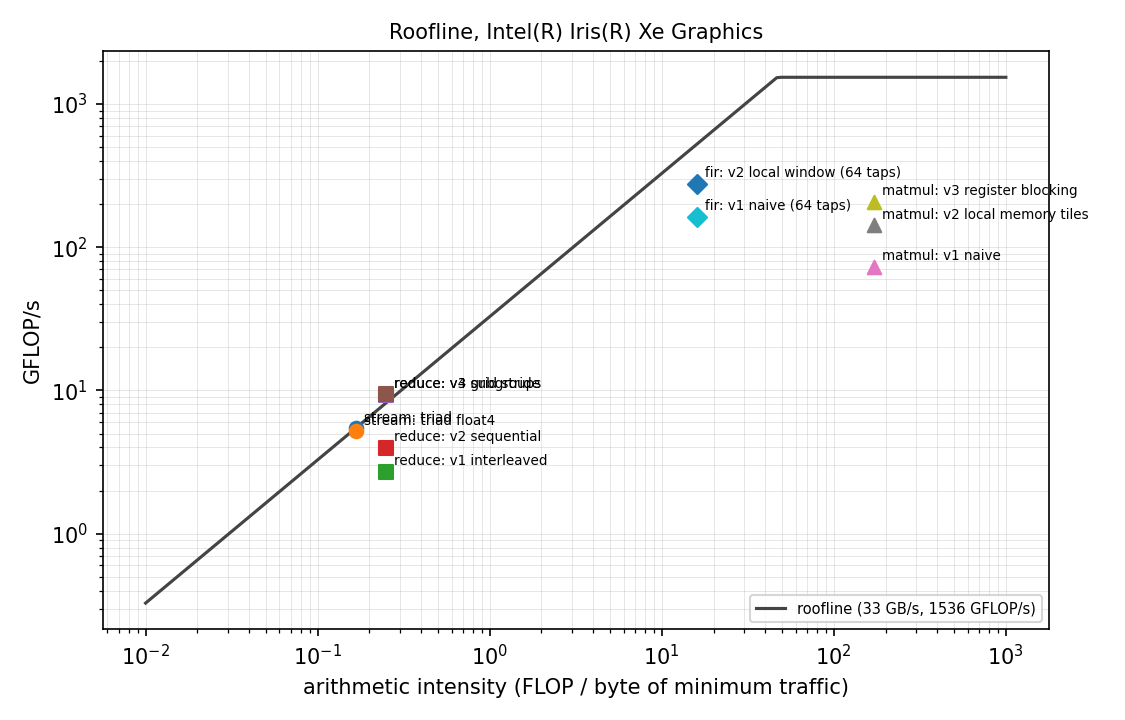
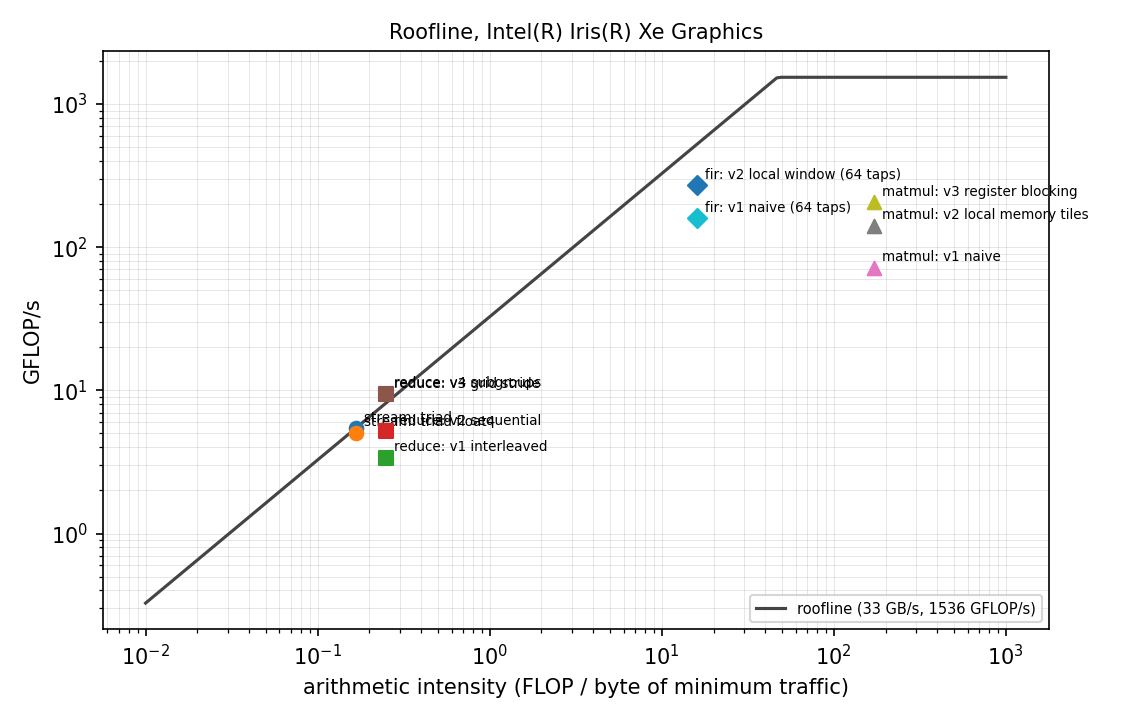
Reduction: uniform loop bound fixes wrong sums on PoCL; 32 bit indices; refreshed GPU results

diff --git a/README.md b/README.md
@@ -14,27 +14,32 @@ All numbers below were measured on an **Intel Iris Xe** integrated GPU (80 execu
 
 | Workload | Version | Time | Throughput | Speedup | What changed |
 |---|---|---|---|---|---|
-| Reduction, 16.8 M floats | v1 interleaved | 6.19 ms | 10.8 GB/s | 1.0x | tree in local memory, modulo test: divergent subgroups, bank conflicts |
-| | v2 sequential | 4.20 ms | 16.0 GB/s | 1.5x | contiguous active work items, so whole subgroups retire together |
-| | v3 grid stride | 2.33 ms | 28.8 GB/s | 2.7x | each work item sums many elements first; far fewer groups and barriers |
-| | v4 subgroups | 2.38 ms | 28.2 GB/s | 2.6x | `sub_group_reduce_add` in registers instead of the local memory tree |
-| | NumPy on CPU | 11.78 ms | 5.7 GB/s | | |
+| Reduction, 16.8 M floats | v1 interleaved | 4.96 ms | 13.5 GB/s | 1.0x | tree in local memory, modulo test: divergent subgroups, bank conflicts |
+| | v2 sequential | 3.22 ms | 20.8 GB/s | 1.5x | contiguous active work items, so whole subgroups retire together |
+| | v3 grid stride | 1.78 ms | 37.6 GB/s | 2.8x | each work item sums many elements first; far fewer groups and barriers |
+| | v4 subgroups | 1.77 ms | 38.0 GB/s | 2.8x | `sub_group_reduce_add` in registers instead of the local memory tree |
+| | NumPy on CPU | 11.59 ms | 5.8 GB/s | | |
 | Matrix multiply, 1024 x 1024 | v1 naive | 29.7 ms | 72 GFLOP/s | 1.0x | every operand from global memory |
 | | v2 local memory tiles | 15.1 ms | 142 GFLOP/s | 2.0x | 16 x 16 tiles staged in shared local memory |
 | | v3 register blocking | 10.4 ms | 207 GFLOP/s | 2.9x | each work item computes 4 outputs, reusing loads from registers |
-| | NumPy on CPU (BLAS) | 8.0 ms | 269 GFLOP/s | | |
+| | NumPy on CPU (BLAS) | 8.0 to 9.2 ms | 235 to 269 GFLOP/s | | |
 | FIR filter, 64 taps, 4.2 M samples | v1 naive | 3.28 ms | 164 GFLOP/s | 1.0x | every tap reads global memory |
-| | v2 local window | 1.97 ms | 273 GFLOP/s | 1.7x | the group loads its input window once into local memory |
-| | NumPy on CPU | 58.6 ms | 9 GFLOP/s | | |
+| | v2 local window | 1.98 ms | 271 GFLOP/s | 1.7x | the group loads its input window once into local memory |
+| | NumPy on CPU | 46 to 59 ms | 9 to 12 GFLOP/s | | |
 
 Measured memory bandwidth (STREAM triad): about **31 to 33 GB/s**, shared with the CPU. Full table with % of
 the roofline and correctness of every run: [results/REPORT.md](results/REPORT.md).
 
 ## What the numbers say
 
-* **Reduction is memory bound** (0.25 FLOP/byte, far left of the ridge point at about 47 FLOP/byte). Once
-  v3 reaches about 90% of measured bandwidth, the subgroup version cannot be faster; it only removes
-  barriers. The right question for a memory bound kernel is "how close to bandwidth", not "how many FLOPs".
+* **Reduction is memory bound** (0.25 FLOP/byte, far left of the ridge point at about 47 FLOP/byte). v3 and v4
+  read at about 38 GB/s, a little above the STREAM triad figure: STREAM mixes reads and writes, a reduction only
+  reads, and read only traffic is faster on this memory system. Once the kernel runs at memory speed the subgroup
+  version cannot be faster; it only removes barriers. The right question for a memory bound kernel is "how close
+  to bandwidth", not "how many FLOPs".
+* **32 bit index arithmetic matters on Xe.** Moving the reduction's loop counters from 64 bit `size_t` to 32 bit
+  `uint` made every version 20 to 30% faster (v3: 2.33 ms to 1.78 ms), because 64 bit integer math is emulated
+  with several instructions.
 * **Matrix multiply is compute bound** and still only at about 13% of peak. Tiling and register blocking
   give 2.9x, but an optimised CPU BLAS is still faster. The next steps would be larger register tiles,
   vector loads, and Intel subgroup block reads, which is where vendor libraries (oneMKL) get their speed.
@@ -53,7 +58,9 @@ pytest -q                          # every kernel variant against NumPy
 ```
 
 No GPU? `pip install -e ".[cpu]"` installs PoCL, which runs the same kernels on the CPU. CI uses it to check
-correctness of every variant on each push.
+correctness of every variant on each push, and it paid off: the first version of the v1 reduction, with
+`get_local_size(0)` written directly in the barrier loop condition, was correct on the Intel GPU but gave wrong sums
+on PoCL. Reading the work group size into a variable first, so the loop is plainly uniform, fixed it on both.
 
 ## Layout
 

diff --git a/results/REPORT.md b/results/REPORT.md
@@ -2,28 +2,28 @@
 
 Intel(R) Iris(R) Xe Graphics (ALL | GPU, 80 compute units at 1200 MHz, 64 KB local memory, 1536 GFLOP/s FP32 peak).
 
-Measured memory bandwidth (best STREAM kernel): **32.8 GB/s**.
-Ridge point of the roofline: 46.9 FLOP/byte. Kernels below it are limited by memory bandwidth, kernels above it by compute.
+Measured memory bandwidth (best STREAM kernel): **32.7 GB/s**.
+Ridge point of the roofline: 47.0 FLOP/byte. Kernels below it are limited by memory bandwidth, kernels above it by compute.
 
 Speedup is against the first (v1) GPU version of the same suite. The NumPy rows run on the laptop's CPU.
 
 | Suite | Variant | Size | Time | GB/s | GFLOP/s | % of roof | FLOP/byte | Speedup | Check |
 |---|---|---|---|---|---|---|---|---|---|
-| stream | copy | 16,777,216 floats | 4.352 ms | 30.8 | 0.0 | 94% of best | 0.00 |  | ok |
-| stream | triad | 16,777,216 floats | 6.145 ms | 32.8 | 5.5 | 100% | 0.17 |  | ok |
-| stream | triad float4 | 16,777,216 floats | 6.455 ms | 31.2 | 5.2 | 95% | 0.17 |  | ok |
-| reduce | v1 interleaved | 16,777,216 floats | 6.193 ms | 10.8 | 2.7 | 33% | 0.25 | 1.0x | ok |
-| reduce | v2 sequential | 16,777,216 floats | 4.204 ms | 16.0 | 4.0 | 49% | 0.25 | 1.5x | ok |
-| reduce | v3 grid stride | 16,777,216 floats | 1.793 ms | 37.4 | 9.4 | 114% | 0.25 | 3.5x | ok |
-| reduce | v4 subgroups | 16,777,216 floats | 1.789 ms | 37.5 | 9.4 | 114% | 0.25 | 3.5x | ok |
-| reduce | NumPy on CPU (reference) | 16,777,216 floats | 8.233 ms | 8.2 | 2.0 | CPU | 0.25 |  | ok |
-| matmul | v1 naive | 1024x1024 | 29.391 ms | 0.4 | 73.1 | 5% | 170.67 | 1.0x | ok |
-| matmul | v2 local memory tiles | 1024x1024 | 15.099 ms | 0.8 | 142.2 | 9% | 170.67 | 1.9x | ok |
-| matmul | v3 register blocking | 1024x1024 | 10.317 ms | 1.2 | 208.1 | 14% | 170.67 | 2.8x | ok |
-| matmul | NumPy on CPU (reference) | 1024x1024 | 8.314 ms | 1.5 | 258.3 | CPU | 170.67 |  | ok |
-| fir | v1 naive (64 taps) | 4,194,304 samples | 3.284 ms | 10.2 | 163.5 | 31% | 16.00 | 1.0x | ok |
-| fir | v2 local window (64 taps) | 4,194,304 samples | 1.933 ms | 17.4 | 277.8 | 53% | 16.00 | 1.7x | ok |
-| fir | NumPy on CPU (reference) | 4,194,304 samples | 60.281 ms | 0.6 | 8.9 | CPU | 16.00 |  | ok |
+| stream | copy | 16,777,216 floats | 4.345 ms | 30.9 | 0.0 | 95% of best | 0.00 |  | ok |
+| stream | triad | 16,777,216 floats | 6.166 ms | 32.7 | 5.4 | 100% | 0.17 |  | ok |
+| stream | triad float4 | 16,777,216 floats | 6.631 ms | 30.4 | 5.1 | 93% | 0.17 |  | ok |
+| reduce | v1 interleaved | 16,777,216 floats | 4.961 ms | 13.5 | 3.4 | 41% | 0.25 | 1.0x | ok |
+| reduce | v2 sequential | 16,777,216 floats | 3.223 ms | 20.8 | 5.2 | 64% | 0.25 | 1.5x | ok |
+| reduce | v3 grid stride | 16,777,216 floats | 1.783 ms | 37.6 | 9.4 | 115% | 0.25 | 2.8x | ok |
+| reduce | v4 subgroups | 16,777,216 floats | 1.768 ms | 38.0 | 9.5 | 116% | 0.25 | 2.8x | ok |
+| reduce | NumPy on CPU (reference) | 16,777,216 floats | 11.593 ms | 5.8 | 1.4 | CPU | 0.25 |  | ok |
+| matmul | v1 naive | 1024x1024 | 29.855 ms | 0.4 | 71.9 | 5% | 170.67 | 1.0x | ok |
+| matmul | v2 local memory tiles | 1024x1024 | 15.221 ms | 0.8 | 141.1 | 9% | 170.67 | 2.0x | ok |
+| matmul | v3 register blocking | 1024x1024 | 10.358 ms | 1.2 | 207.3 | 13% | 170.67 | 2.9x | ok |
+| matmul | NumPy on CPU (reference) | 1024x1024 | 9.157 ms | 1.4 | 234.5 | CPU | 170.67 |  | ok |
+| fir | v1 naive (64 taps) | 4,194,304 samples | 3.353 ms | 10.0 | 160.1 | 31% | 16.00 | 1.0x | ok |
+| fir | v2 local window (64 taps) | 4,194,304 samples | 1.981 ms | 16.9 | 270.9 | 52% | 16.00 | 1.7x | ok |
+| fir | NumPy on CPU (reference) | 4,194,304 samples | 46.388 ms | 0.7 | 11.6 | CPU | 16.00 |  | ok |
 
 ![roofline](roofline.png)
 
